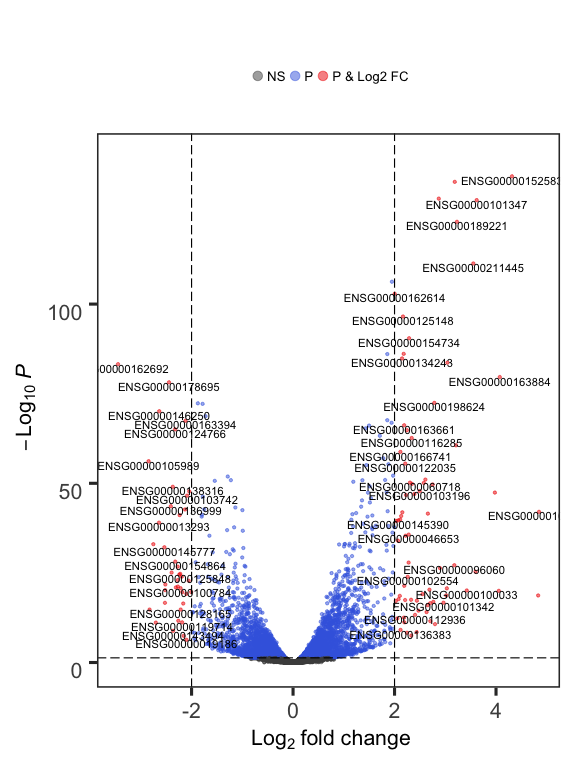
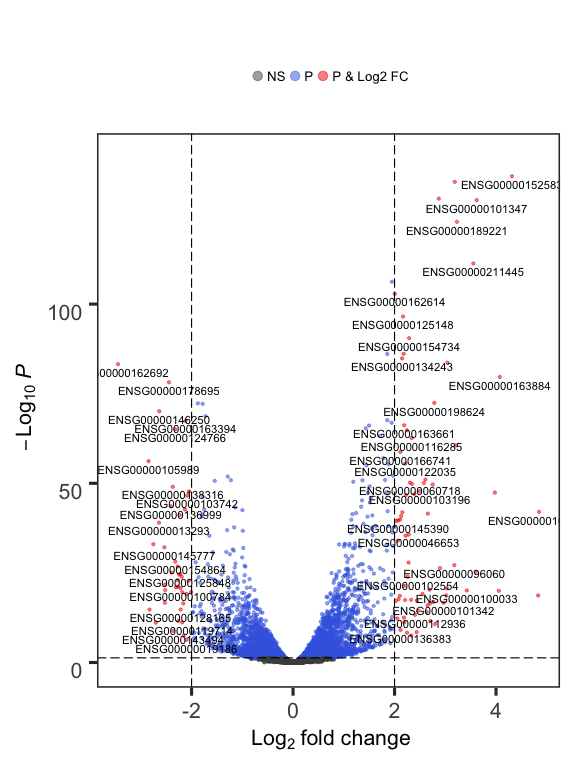
Update README

diff --git a/README.md b/README.md
@@ -525,7 +525,7 @@ sessionInfo()
     ##  [9] Biobase_2.40.0              GenomicRanges_1.32.3       
     ## [11] GenomeInfoDb_1.16.0         IRanges_2.14.10            
     ## [13] S4Vectors_0.18.3            BiocGenerics_0.26.0        
-    ## [15] EnhancedVolcano_0.99.7      ggrepel_0.8.0              
+    ## [15] EnhancedVolcano_0.99.8      ggrepel_0.8.0              
     ## [17] ggplot2_3.0.0               knitr_1.20                 
     ## 
     ## loaded via a namespace (and not attached):
